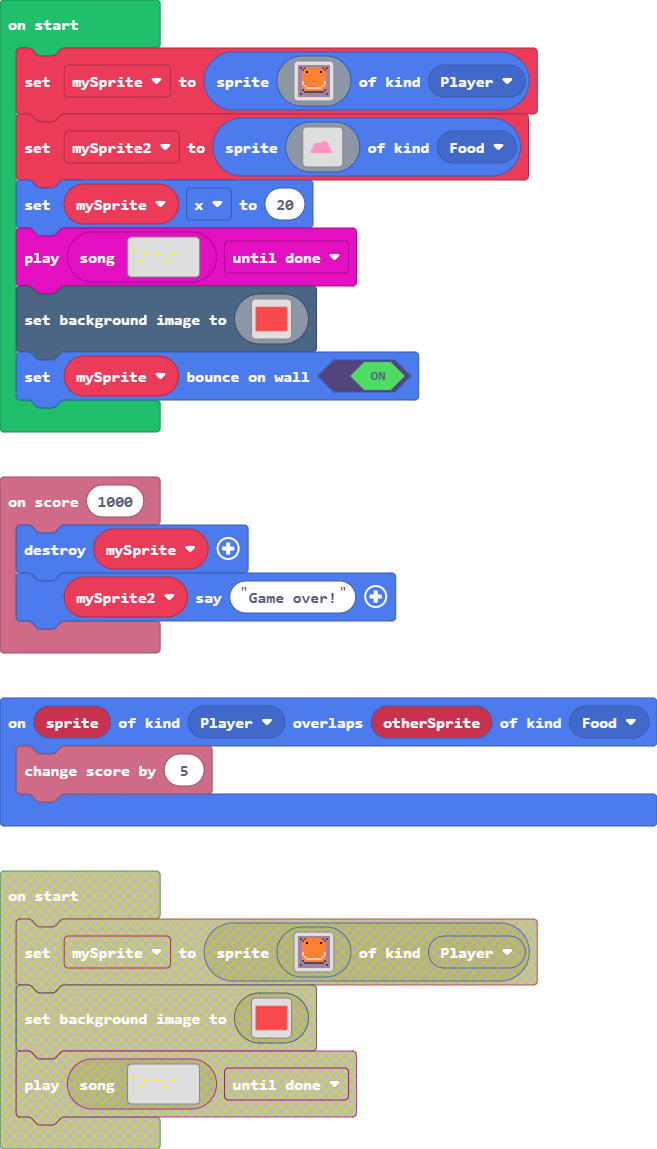
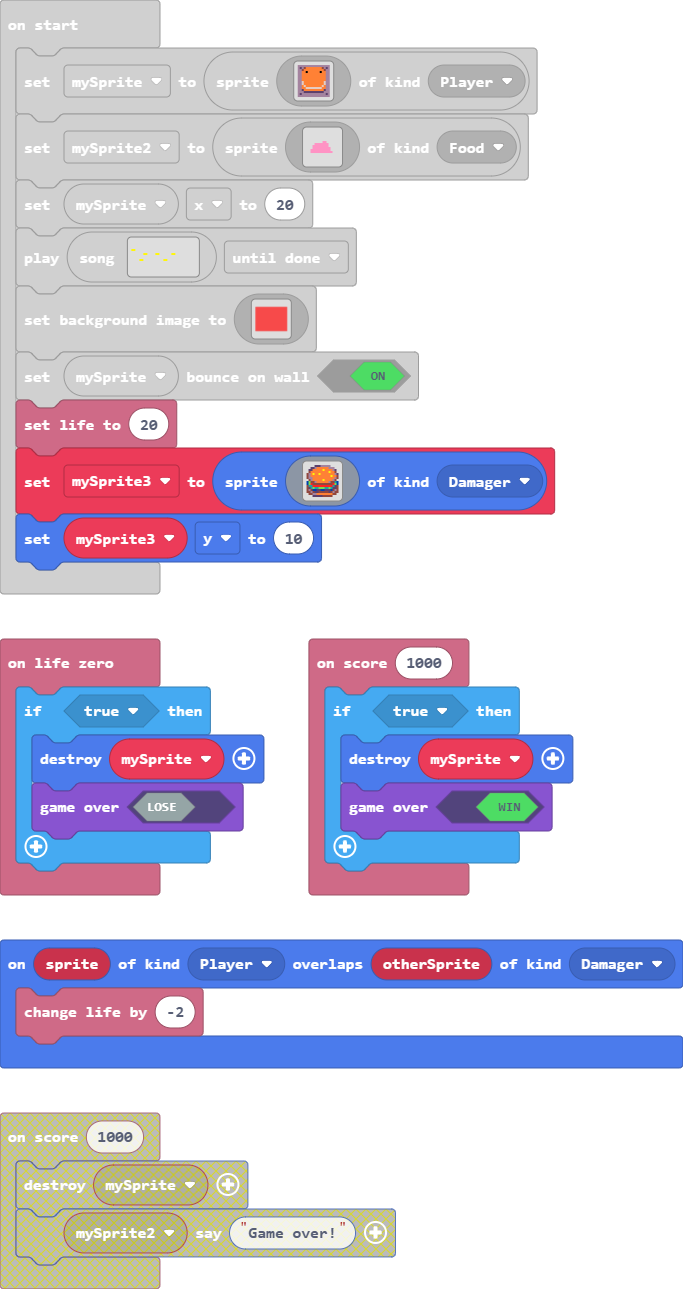
Full release!!

diff --git a/main.ts b/main.ts
@@ -1,6 +1,14 @@
+namespace SpriteKind {
+    export const Damager = SpriteKind.create()
+}
+sprites.onOverlap(SpriteKind.Player, SpriteKind.Damager, function (sprite, otherSprite) {
+    info.changeLifeBy(-2)
+})
 info.onScore(1000, function () {
-    sprites.destroy(mySprite)
-    mySprite2.sayText("Game over!")
+    if (true) {
+        sprites.destroy(mySprite)
+        game.gameOver(true)
+    }
 })
 controller.up.onEvent(ControllerButtonEvent.Repeated, function () {
     mySprite.y += -2
@@ -11,17 +19,25 @@ controller.right.onEvent(ControllerButtonEvent.Repeated, function () {
 controller.down.onEvent(ControllerButtonEvent.Repeated, function () {
     mySprite.y += 2
 })
+info.onLifeZero(function () {
+    if (true) {
+        sprites.destroy(mySprite)
+        game.gameOver(false)
+    }
+})
 sprites.onOverlap(SpriteKind.Player, SpriteKind.Food, function (sprite, otherSprite) {
     info.changeScoreBy(5)
 })
 controller.left.onEvent(ControllerButtonEvent.Repeated, function () {
     mySprite.x += -2
 })
-let mySprite2: Sprite = null
 let mySprite: Sprite = null
 mySprite = sprites.create(assets.image`Player`, SpriteKind.Player)
-mySprite2 = sprites.create(assets.image`myImage0`, SpriteKind.Food)
+let mySprite2 = sprites.create(assets.image`myImage0`, SpriteKind.Food)
 mySprite.x = 20
 music.play(music.createSong(assets.song`song`), music.PlaybackMode.UntilDone)
 scene.setBackgroundImage(assets.image`red`)
 mySprite.setBounceOnWall(true)
+info.setLife(20)
+let mySprite3 = sprites.create(assets.image`myImage1`, SpriteKind.Damager)
+mySprite3.y = 10

diff --git a/images.g.ts b/images.g.ts
@@ -183,6 +183,25 @@ b b b b b b b b b b b b b b b b
 . . . . . . . . . . . . . . . . 
 . . . . . . . . . . . . . . . . 
 `;
+            case "image5":
+            case "myImage1":return img`
+. . . . c c c b b b b b . . . . 
+. . c c b 4 4 4 4 4 4 b b b . . 
+. c c 4 4 4 4 4 5 4 4 4 4 b c . 
+. e 4 4 4 4 4 4 4 4 4 5 4 4 e . 
+e b 4 5 4 4 5 4 4 4 4 4 4 4 b c 
+e b 4 4 4 4 4 4 4 4 4 4 5 4 4 e 
+e b b 4 4 4 4 4 4 4 4 4 4 4 b e 
+. e b 4 4 4 4 4 5 4 4 4 4 b e . 
+8 7 e e b 4 4 4 4 4 4 b e e 6 8 
+8 7 2 e e e e e e e e e e 2 7 8 
+e 6 6 2 2 2 2 2 2 2 2 2 2 6 c e 
+e c 6 7 6 6 7 7 7 6 6 7 6 c c e 
+e b e 8 8 c c 8 8 c c c 8 e b e 
+e e b e c c e e e e e c e b e e 
+. e e b b 4 4 4 4 4 4 4 4 e e . 
+. . . c c c c c e e e e e . . . 
+`;
         }
         return null;
     })
@@ -294,6 +313,8 @@ b b b b b b b b b b b b b b b b
         switch(helpers.stringTrim(name)) {
             case "song1":
[1 lines of base64/hex data omitted]
+            case "song2":
[1 lines of base64/hex data omitted]
         }
         return null;
     })
